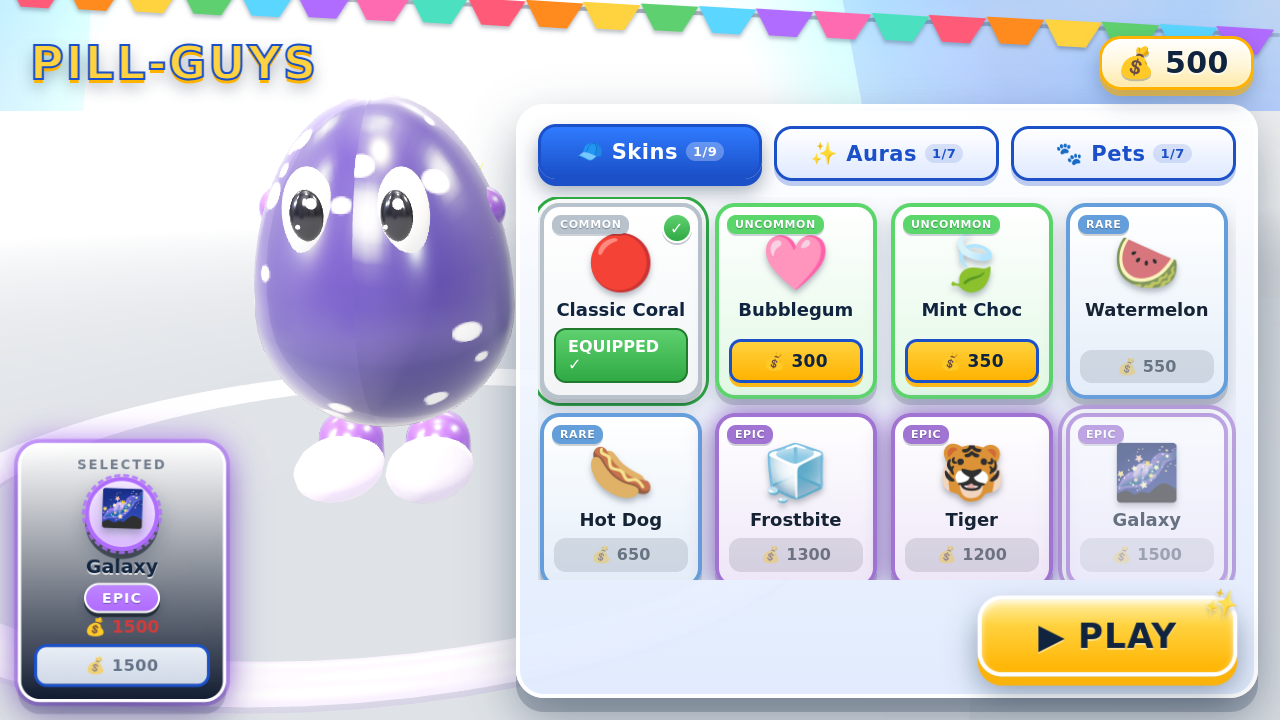
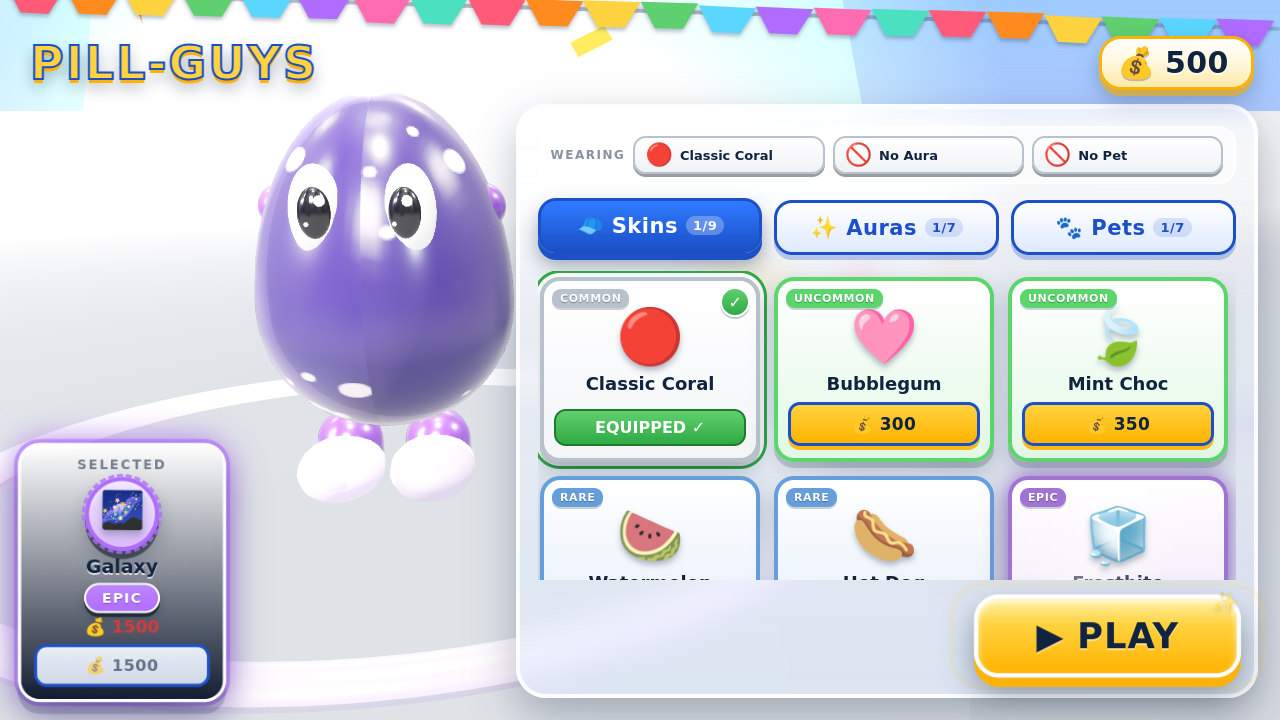
Polish the lobby UI: frosted panel, equipped-loadout strip, bigger cards
- Right panel is now FROSTED GLASS (translucent + backdrop blur) so the
  festive bokeh/confetti shows through it — lighter and more premium than
  the heavy opaque box.
- Added a 'WEARING' equipped-loadout strip atop the panel: three chips
  showing the currently worn skin / aura / pet at a glance (rarity-tinted),
  each clickable to jump to that tab + item. Live-updates on buy/equip.
- Larger, cleaner item cards (162px min) for a more premium grid.

createLobbyUI contract unchanged; verified a click-buy still works
(coins 500->350, equipped) and the WEARING strip updates, no page errors.
Refreshed lobby.png / lobby_fancy.png.

Claude-Session: https://claude.ai/code/session_01EMvVBB8ascX6EsQtEzbMDA

diff --git a/web/src/lobbyUI.js b/web/src/lobbyUI.js
@@ -364,10 +364,12 @@ export function createLobbyUI(opts = {}) {
     gap: '16px',
     padding: '18px',
     boxSizing: 'border-box',
-    background: 'linear-gradient(180deg, rgba(255,255,255,0.93) 0%, rgba(225,236,255,0.93) 100%)',
-    border: `4px solid ${C.white}`,
-    borderRadius: '28px',
-    boxShadow: '0 14px 0 rgba(16,36,63,0.22), 0 22px 50px rgba(16,36,63,0.38)',
+    background: 'linear-gradient(180deg, rgba(255,255,255,0.5) 0%, rgba(216,231,255,0.42) 100%)',
+    border: `4px solid ${rgba(C.white, 0.85)}`,
+    borderRadius: '30px',
+    boxShadow: '0 18px 44px rgba(16,36,63,0.3), inset 0 1px 0 rgba(255,255,255,0.65)',
+    backdropFilter: 'blur(16px) saturate(1.25)',
+    WebkitBackdropFilter: 'blur(16px) saturate(1.25)',
   });
 
   // --- Tabs row ---
@@ -431,6 +433,21 @@ export function createLobbyUI(opts = {}) {
     tabRow.appendChild(btn);
     tabBtns.set(t.key, { btn, count: tCount });
   }
+
+  // --- Equipped loadout strip ("what you're wearing") — sits above the tabs ---
+  const loadoutRow = document.createElement('div');
+  Object.assign(loadoutRow.style, {
+    flex: '0 0 auto',
+    display: 'flex',
+    alignItems: 'center',
+    gap: '8px',
+    padding: '8px 11px',
+    borderRadius: '18px',
+    background: rgba(C.white, 0.55),
+    border: `2px solid ${rgba(C.white, 0.85)}`,
+    boxShadow: 'inset 0 1px 0 rgba(255,255,255,0.6)',
+  });
+  panel.appendChild(loadoutRow);
   panel.appendChild(tabRow);
 
   // --- Scrollable card grid ---
@@ -441,7 +458,7 @@ export function createLobbyUI(opts = {}) {
     overflowY: 'auto',
     overflowX: 'hidden',
     display: 'grid',
-    gridTemplateColumns: 'repeat(auto-fill, minmax(150px, 1fr))',
+    gridTemplateColumns: 'repeat(auto-fill, minmax(162px, 1fr))',
     gap: '14px',
     padding: '6px 8px 6px 2px',
     alignContent: 'start',
@@ -1070,6 +1087,41 @@ export function createLobbyUI(opts = {}) {
 
   // ============ Public API ============
 
+  // The equipped loadout strip — three chips showing the worn skin/aura/pet.
+  // Clicking a chip jumps to that tab + selects the worn item.
+  function renderLoadout(snap) {
+    loadoutRow.innerHTML = '';
+    const label = document.createElement('div');
+    label.textContent = 'WEARING';
+    Object.assign(label.style, { flex: '0 0 auto', fontSize: '12px', fontWeight: '800', letterSpacing: '1.5px', color: rgba(C.ink, 0.5) });
+    loadoutRow.appendChild(label);
+    for (const cat of ['skin', 'aura', 'pet']) {
+      const item = findItem(cat, snap.equipped && snap.equipped[cat]) || itemsOf(cat)[0];
+      if (!item) continue;
+      const rar = rarityOf(item);
+      const chip = document.createElement('button');
+      chip.type = 'button';
+      chip.className = 'pgl-btn';
+      Object.assign(chip.style, {
+        flex: '1 1 0', minWidth: '0', cursor: 'pointer', display: 'flex', alignItems: 'center', gap: '7px',
+        padding: '6px 10px', borderRadius: '13px', border: `2px solid ${rar.color}`,
+        background: `linear-gradient(180deg, ${C.white} 0%, ${lighten(rar.color, 0.78)} 100%)`,
+        boxShadow: `0 3px 0 ${rgba(darken(rar.color, 0.2), 0.4)}`,
+        fontFamily: 'inherit',
+      });
+      const ic = document.createElement('span');
+      ic.textContent = item.icon || '❔';
+      ic.style.cssText = 'font-size:22px;line-height:1;flex:0 0 auto;';
+      const nm = document.createElement('span');
+      nm.textContent = item.name;
+      Object.assign(nm.style, { fontWeight: '800', fontSize: '13px', color: C.ink, whiteSpace: 'nowrap', overflow: 'hidden', textOverflow: 'ellipsis' });
+      chip.appendChild(ic);
+      chip.appendChild(nm);
+      chip.addEventListener('click', () => { setActiveTab(cat); selectItem(item.id); });
+      loadoutRow.appendChild(chip);
+    }
+  }
+
   function refresh() {
     const snap = safeSnap();
     // Ensure a valid selection for the active tab before rendering anything that depends on it.
@@ -1077,6 +1129,7 @@ export function createLobbyUI(opts = {}) {
       selectedId = defaultSelectionFor(activeTab, snap);
     }
     renderCoins(snap.coins | 0);
+    renderLoadout(snap);
     styleTabs(snap);
     renderGrid(snap);
     renderShowcase(snap);
